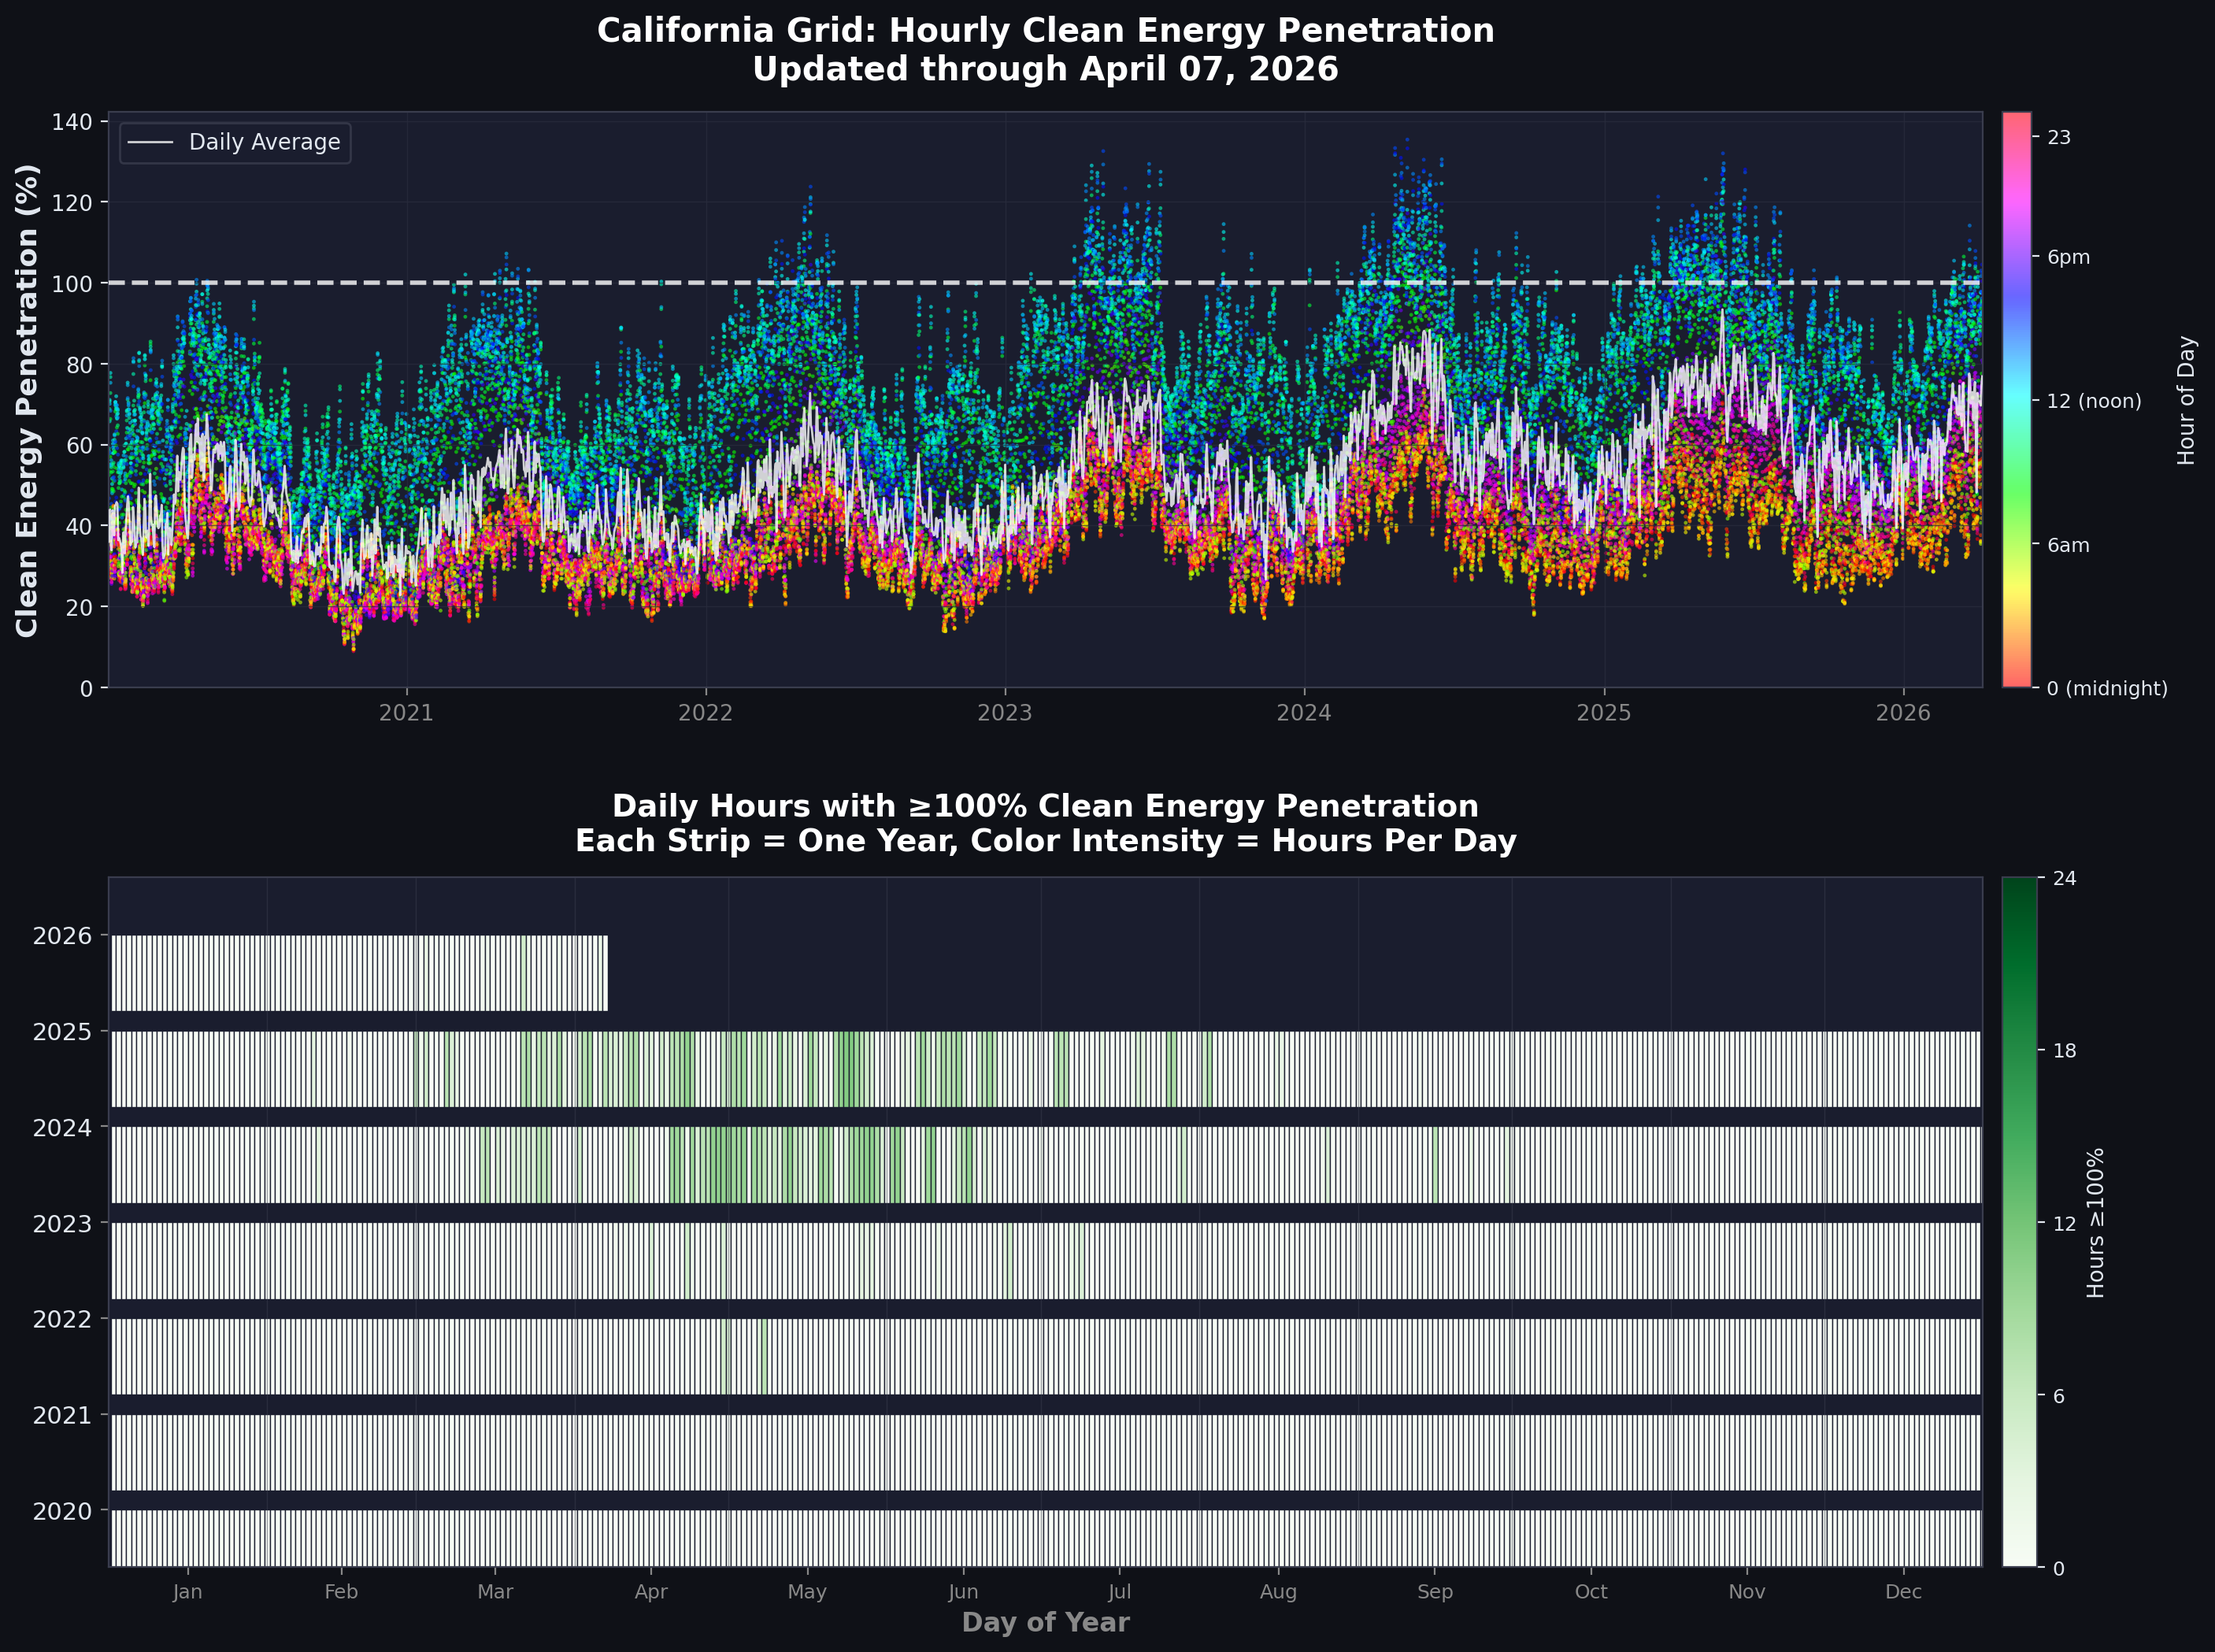
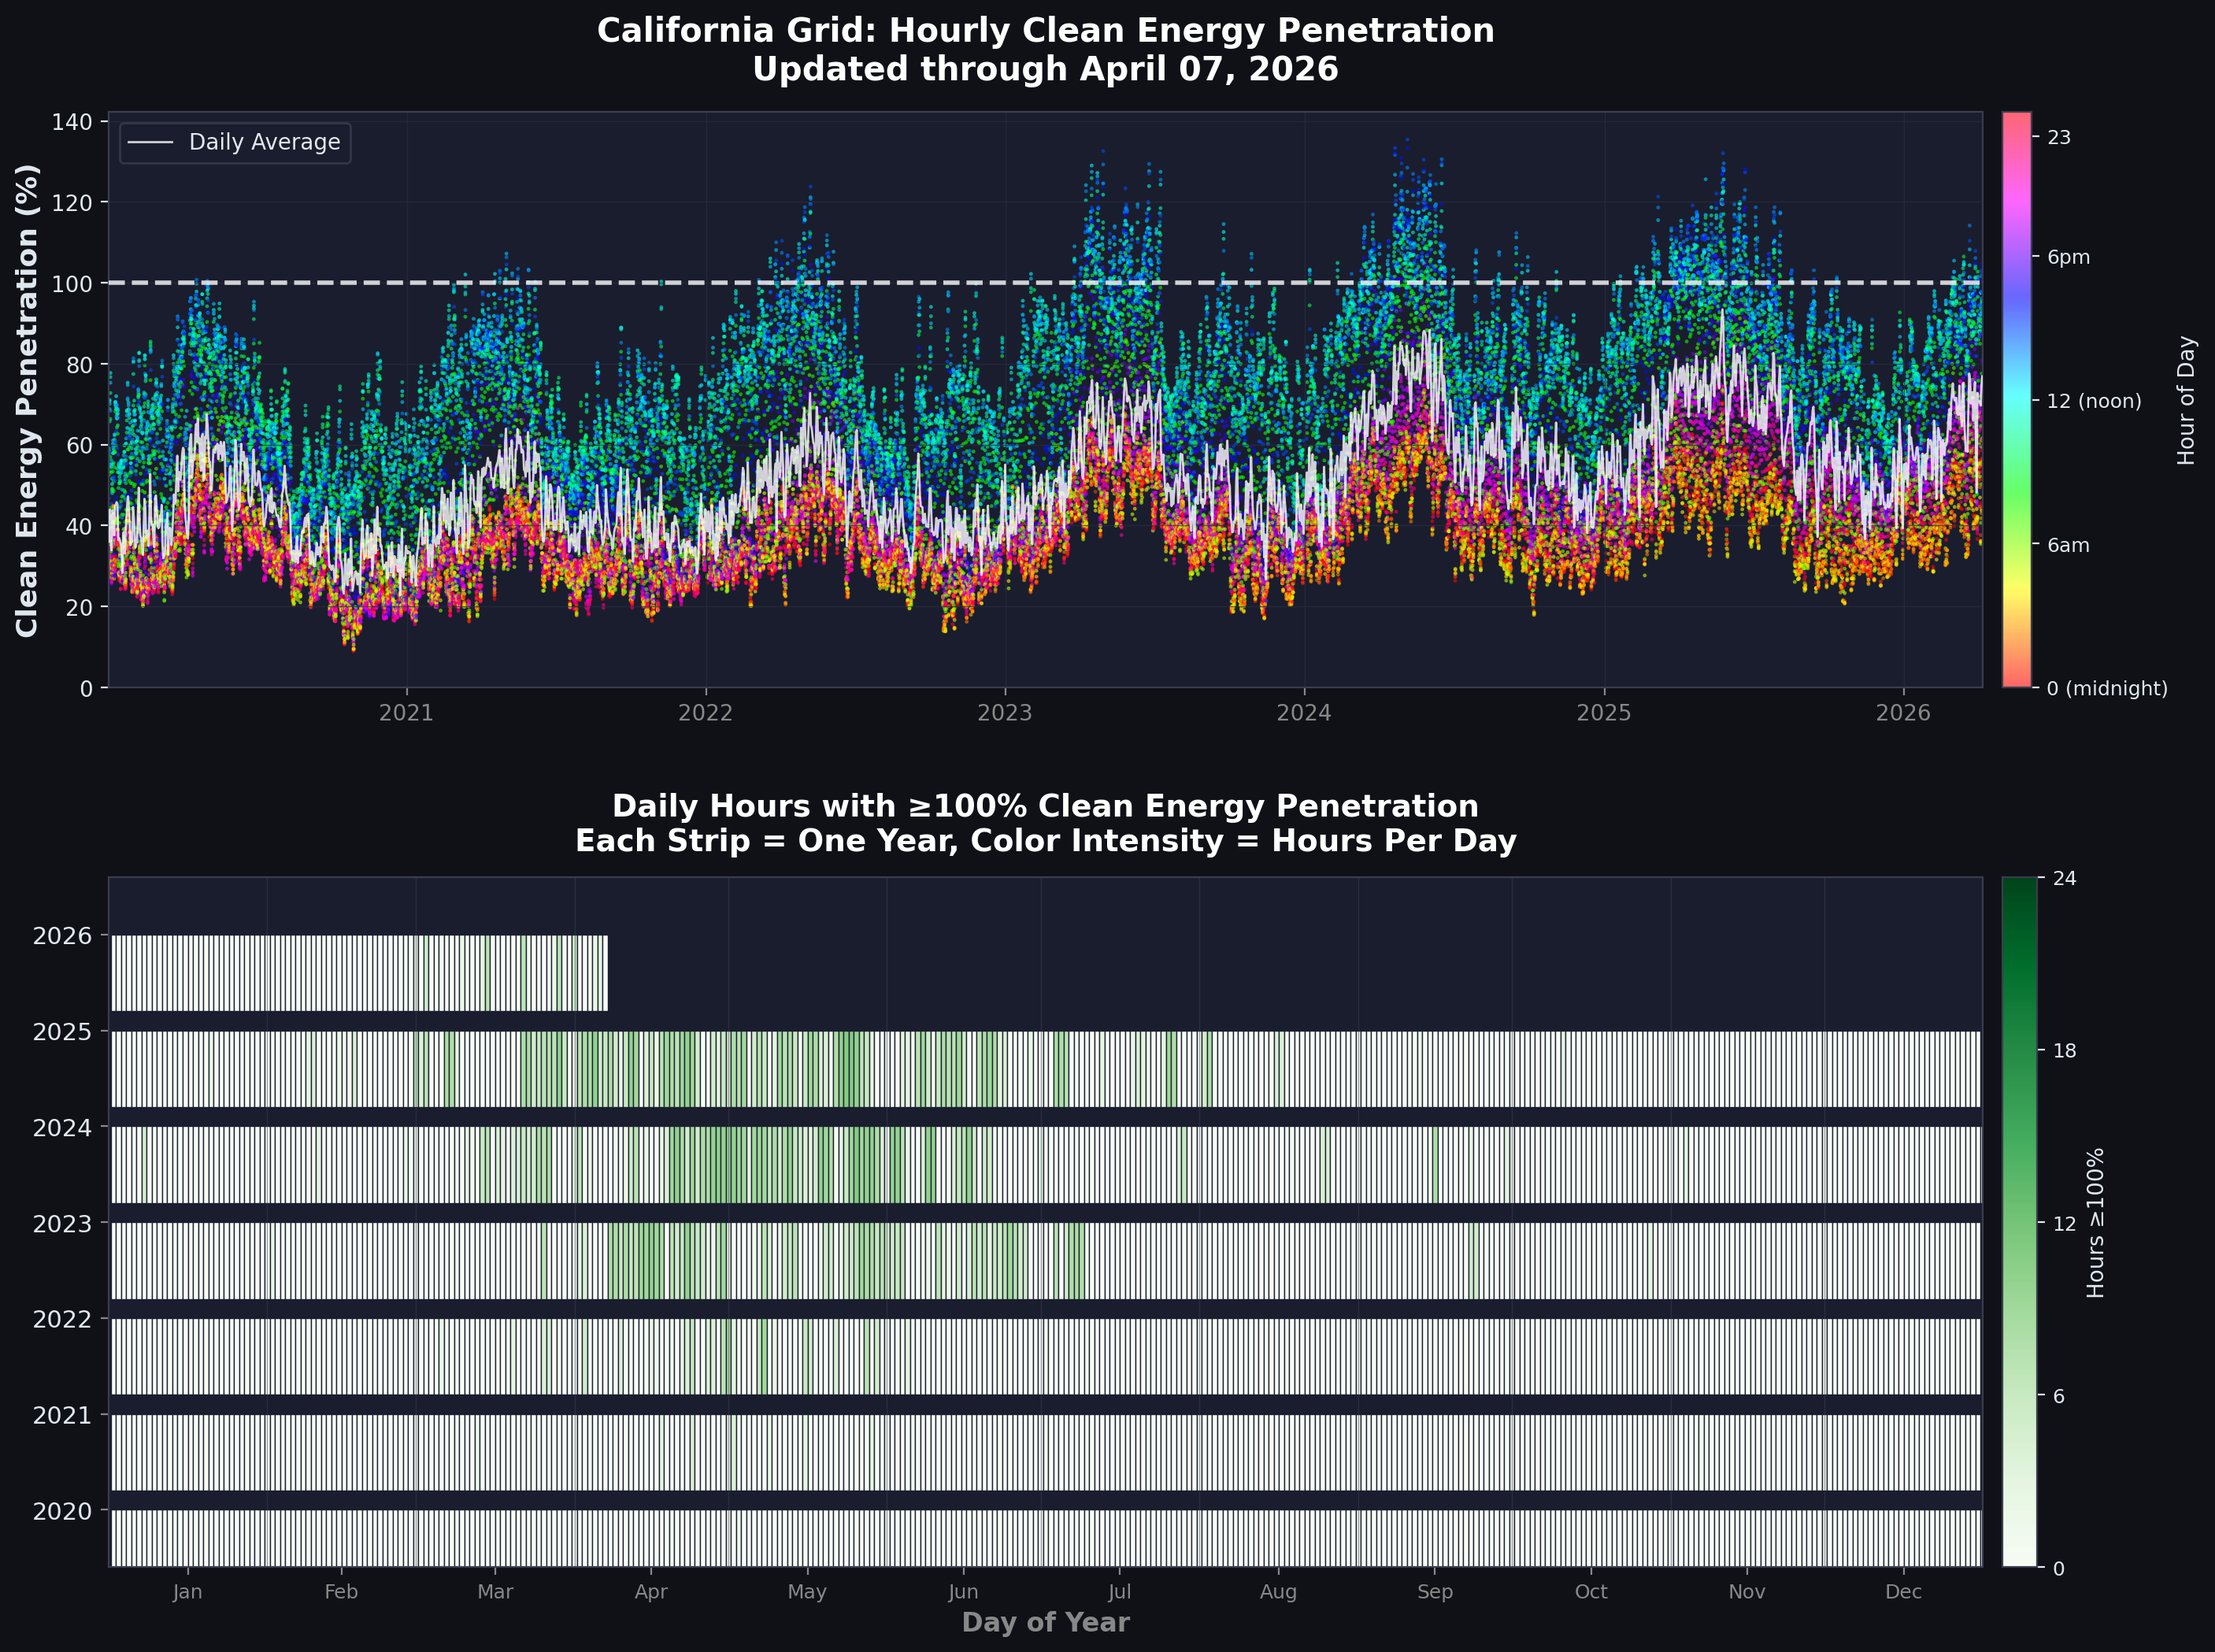
Fix Panel 2 heatmap: use demand-based hours>=100% matching Panel 1
Panel 2 was using energy_based data (generation-sum denominator) which
includes exports, rarely exceeding 100%. Now derives hours>=100% from
the same hourly corrected data (demand CSV denominator) as Panel 1.

diff --git a/GridUtilization/plot_renewable_penetration_improved_v3.py b/GridUtilization/plot_renewable_penetration_improved_v3.py
@@ -1,0 +1,248 @@
+"""
+Improved 2-panel clean energy penetration visualization (V3 - ENERGY-BASED).
+
+ENERGY-BASED changes:
+- Daily penetration = Total Clean Energy (MWh) / Total Load (MWh) × 100
+- This differs from V3 which averaged hourly percentages
+- Clean energy includes battery discharge + Nuclear + Large hydro
+- Demand includes all sources (battery too)
+- Shows clean/zero-carbon energy vs actual grid load
+
+Panel 1: All hourly clean energy % values (2020-2025) with 100% threshold line
+Panel 2: Calendar heat map showing daily hours ≥100%
+"""
+import json
+import os
+import numpy as np
+import matplotlib.pyplot as plt
+import matplotlib.colors as mcolors
+import matplotlib.dates as mdates
+from datetime import datetime as dt
+import calendar
+
+script_dir = os.path.dirname(os.path.abspath(__file__))
+
+# Load hourly data (CORRECTED - uses actual demand CSVs)
+print("Loading hourly data (CORRECTED)...")
+with open(os.path.join(script_dir, "renewable_penetration_hourly_corrected.json")) as f:
+    hourly_data = json.load(f)
+
+# Load daily data (ENERGY-BASED)
+print("Loading daily data (ENERGY-BASED)...")
+with open(os.path.join(script_dir, "renewable_penetration_daily_energy_based.json")) as f:
+    daily_data = json.load(f)
+
+# Parse hourly data
+hourly_dates = []
+hourly_pct = []
+for hour_key, pct in sorted(hourly_data.items()):
+    # Parse "YYYY-MM-DD HH"
+    date_str, hour_str = hour_key.rsplit(' ', 1)
+    dt_obj = dt.strptime(f"{date_str} {hour_str}:00", "%Y-%m-%d %H:%M")
+    hourly_dates.append(dt_obj)
+    hourly_pct.append(pct)
+
+hourly_dates = np.array(hourly_dates)
+hourly_pct = np.array(hourly_pct)
+
+print(f"Loaded {len(hourly_dates):,} hourly data points")
+
+# Parse daily data (avg_penetration from energy-based for the daily average line)
+daily_dates = []
+daily_avg_penetration = []
+
+for date_str in sorted(daily_data.keys()):
+    daily_dates.append(dt.strptime(date_str, "%Y-%m-%d"))
+    daily_avg_penetration.append(daily_data[date_str]["avg_penetration"])
+
+daily_dates = np.array(daily_dates)
+daily_avg_penetration = np.array(daily_avg_penetration)
+
+# Derive hours_over_100 from the SAME hourly corrected data used in Panel 1
+# The energy_based script uses generation-sum as denominator (includes exports),
+# which rarely exceeds 100%. The hourly corrected data uses actual demand from
+# demand CSVs, matching Panel 1's definition of >=100%.
+from collections import defaultdict
+hours_over_100_by_date = defaultdict(int)
+for hour_key, pct in hourly_data.items():
+    date_str = hour_key.rsplit(' ', 1)[0]
+    if pct >= 100:
+        hours_over_100_by_date[date_str] += 1
+
+daily_hours_over_100 = np.array([
+    hours_over_100_by_date.get(d.strftime("%Y-%m-%d"), 0) for d in daily_dates
+])
+
+print(f"Loaded {len(daily_dates):,} daily data points")
+
+# Style constants
+BG_OUTER = "#0f1117"
+BG_INNER = "#1a1d2e"
+TEXT_COLOR = "#e2e8f0"
+GRID_COLOR = "#2a2d3e"
+SPINE_COLOR = "#3a3d4e"
+ACCENT_GREEN = "#10b981"
+ACCENT_ORANGE = "#f97316"
+ACCENT_CYAN = "#22d3ee"
+ACCENT_PURPLE = "#a855f7"
+
+# Create figure with 2 panels
+fig = plt.figure(figsize=(16, 12), facecolor=BG_OUTER)
+gs = fig.add_gridspec(2, 1, height_ratios=[1, 1.2], hspace=0.3)
+
+ax1 = fig.add_subplot(gs[0])
+ax2 = fig.add_subplot(gs[1])
+
+for ax in [ax1, ax2]:
+    ax.set_facecolor(BG_INNER)
+    ax.tick_params(colors="#888", labelsize=10)
+    for spine in ax.spines.values():
+        spine.set_color(SPINE_COLOR)
+
+# ══════════════════════════════════════════════════════════════════════════
+# Panel 1: All hourly clean energy penetration values (scatter)
+# ══════════════════════════════════════════════════════════════════════════
+print("Creating Panel 1: Hourly penetration...")
+
+x_hours = mdates.date2num(hourly_dates)
+
+# Extract hour of day (0-23) for color mapping
+hourly_hours = np.array([d.hour for d in hourly_dates])
+
+# Use hour of day for coloring to show temporal patterns
+# HSV colormap: cycles through full color spectrum over 24 hours
+norm_hour = mcolors.Normalize(vmin=0, vmax=24)
+
+# Plot as scatter with hour-of-day coloring
+scatter = ax1.scatter(x_hours, hourly_pct,
+                     c=hourly_hours, cmap='hsv', norm=norm_hour,
+                     s=3, alpha=0.6, edgecolors="none", rasterized=True)
+
+# Add daily average line to show overall trend
+x_daily = mdates.date2num(daily_dates)
+ax1.plot(x_daily, daily_avg_penetration,
+         color="#ffffff", linewidth=1.0, alpha=0.8,
+         zorder=4, label="Daily Average")
+
+# 100% threshold line
+ax1.axhline(100, color="#ffffff", linewidth=2, linestyle="--",
+            alpha=0.8, zorder=5)
+
+ax1.set_ylabel("Clean Energy Penetration (%)",
+               color=TEXT_COLOR, fontsize=13, fontweight="bold")
+ax1.tick_params(axis="y", colors=TEXT_COLOR)
+last_date_fmt = sorted(daily_data.keys())[-1]
+last_date_label = dt.strptime(last_date_fmt, "%Y-%m-%d").strftime("%B %d, %Y")
+ax1.set_title(f"California Grid: Hourly Clean Energy Penetration\n"
+              f"Updated through {last_date_label}",
+              color="#fff", fontsize=15, fontweight="bold", pad=15)
+
+ax1.xaxis.set_major_locator(mdates.YearLocator())
+ax1.xaxis.set_major_formatter(mdates.DateFormatter('%Y'))
+ax1.set_xlim(x_hours[0], x_hours[-1])
+ax1.set_ylim(0, max(hourly_pct) * 1.05)
+ax1.grid(True, color=GRID_COLOR, linewidth=0.5, alpha=0.7)
+
+# Add legend
+ax1.legend(loc='upper left', fontsize=10, framealpha=0.8, facecolor=BG_INNER,
+           edgecolor=SPINE_COLOR, labelcolor=TEXT_COLOR)
+
+# Add colorbar for hour of day
+cbar1 = fig.colorbar(scatter, ax=ax1, orientation='vertical', pad=0.01,
+                    aspect=20, fraction=0.03)
+cbar1.set_label("Hour of Day", fontsize=10, color=TEXT_COLOR)
+cbar1.set_ticks([0, 6, 12, 18, 23])
+cbar1.set_ticklabels(['0 (midnight)', '6am', '12 (noon)', '6pm', '23'])
+cbar1.ax.tick_params(colors=TEXT_COLOR, labelsize=9)
+cbar1.outline.set_edgecolor(SPINE_COLOR)
+
+# ══════════════════════════════════════════════════════════════════════════
+# Panel 2: Calendar heat map of daily hours ≥100%
+# ══════════════════════════════════════════════════════════════════════════
+print("Creating Panel 2: Calendar heat map...")
+
+# Create a matrix: rows=weeks, cols=7 days
+# We'll create a simplified yearly strip chart
+years = range(2020, 2027)
+n_years = len(years)
+
+# Create year strips
+ax2.clear()
+ax2.set_facecolor(BG_INNER)
+
+# Calculate positions
+strip_height = 0.8
+gap = 0.2
+y_positions = np.arange(n_years) * (strip_height + gap)
+
+# Create a colormap for hours ≥100%
+# Use fixed 0-24 hour scale to show progress toward 24/7 clean energy goal
+max_hours = 24  # Fixed scale (0-24 hours per day)
+# Use green gradient: white (0 hours) to dark green (24 hours)
+cmap = plt.cm.Greens  # Green gradient - higher values = darker green
+norm = mcolors.Normalize(vmin=0, vmax=max_hours)
+
+for i, year in enumerate(years):
+    year_days = []
+    year_hours = []
+
+    for date, hours in zip(daily_dates, daily_hours_over_100):
+        if date.year == year:
+            day_of_year = date.timetuple().tm_yday
+            year_days.append(day_of_year)
+            year_hours.append(hours)
+
+    if year_days:
+        # Create bars for each day
+        for day, hours in zip(year_days, year_hours):
+            color = cmap(norm(hours))
+            ax2.barh(y_positions[i], 1, left=day-0.5, height=strip_height,
+                    color=color, edgecolor=BG_INNER, linewidth=0.5)
+
+# Styling
+ax2.set_yticks(y_positions + strip_height/2)
+ax2.set_yticklabels([str(y) for y in years], fontsize=11, color=TEXT_COLOR)
+ax2.set_xlabel("Day of Year", fontsize=12, color="#888", fontweight="bold")
+ax2.set_xlim(0, 366)
+ax2.set_ylim(-0.2, n_years * (strip_height + gap))
+ax2.set_title("Daily Hours with ≥100% Clean Energy Penetration\n"
+              "Each Strip = One Year, Color Intensity = Hours Per Day",
+              color="#fff", fontsize=14, fontweight="bold", pad=12)
+
+# Month markers
+month_days = [0]
+for m in range(1, 13):
+    month_days.append(month_days[-1] + calendar.monthrange(2024, m)[1])  # Use 2024 (leap year)
+month_centers = [(month_days[i] + month_days[i+1])/2 for i in range(12)]
+ax2.set_xticks(month_centers)
+ax2.set_xticklabels(['Jan', 'Feb', 'Mar', 'Apr', 'May', 'Jun',
+                      'Jul', 'Aug', 'Sep', 'Oct', 'Nov', 'Dec'],
+                     fontsize=9, color="#888")
+
+# Add vertical lines for months
+for day in month_days[1:-1]:
+    ax2.axvline(day, color=SPINE_COLOR, linewidth=0.5, alpha=0.5)
+
+# Colorbar
+sm = plt.cm.ScalarMappable(cmap=cmap, norm=norm)
+sm.set_array([])
+cbar = fig.colorbar(sm, ax=ax2, orientation='vertical', pad=0.01,
+                    aspect=20, fraction=0.03)
+cbar.set_label("Hours ≥100%", fontsize=10, color=TEXT_COLOR)
+cbar.set_ticks([0, 6, 12, 18, 24])
+cbar.ax.tick_params(colors=TEXT_COLOR, labelsize=9)
+cbar.outline.set_edgecolor(SPINE_COLOR)
+
+ax2.grid(False)
+for spine in ax2.spines.values():
+    spine.set_color(SPINE_COLOR)
+
+
+# Save
+print("Saving figure...")
+out_path = os.path.join(script_dir, "renewable_penetration_improved_v3.png")
+fig.savefig(out_path, dpi=200, facecolor=BG_OUTER, bbox_inches="tight")
+print(f"Saved to {out_path}")
+plt.close()
+
+print("\nVisualization complete!")
